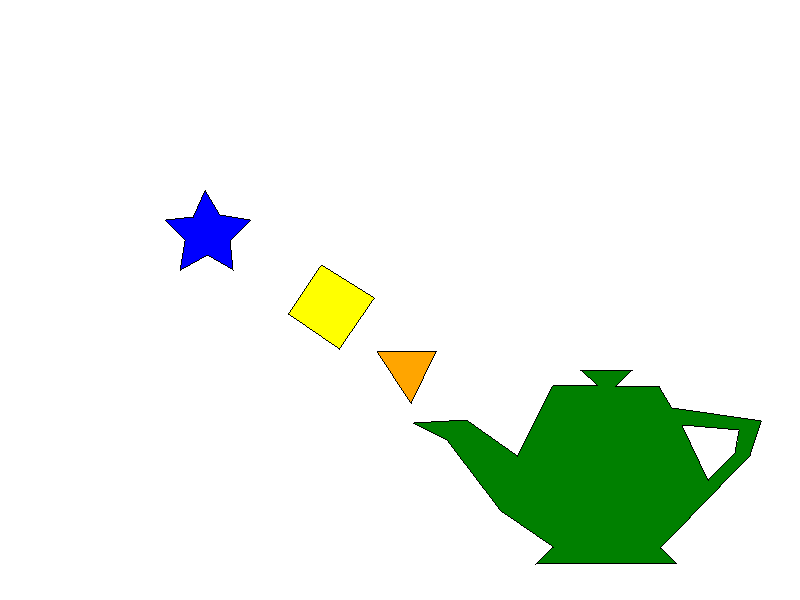
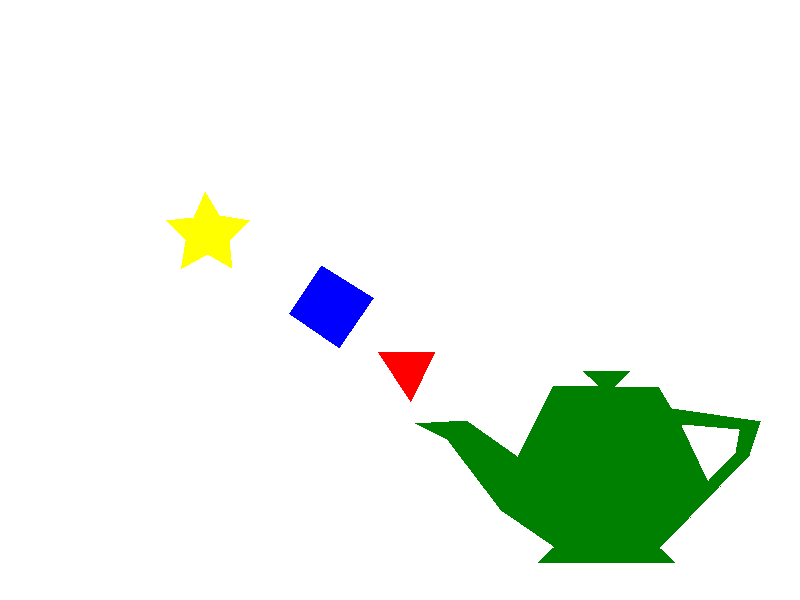
Done

Changed region(s): [[0.3438, 0.45, 0.4688, 0.6], [0.1875, 0.33, 0.3125, 0.45], [0.4688, 0.57, 0.5625, 0.66]]

diff --git a/src/main.rs b/src/main.rs
@@ -119,10 +119,10 @@ fn main() {
                 Vector2::new(tri[0].x, tri[0].y),
                 Vector2::new(tri[1].x, tri[1].y),
                 Vector2::new(tri[2].x, tri[2].y),
-                Color::BLUE,
+                Color::YELLOW,
             );
         }
-        draw_polygon_outline(&mut new_image, &polygone1, Color::BLACK, image_height);
+        draw_polygon_outline(&mut new_image, &polygone1, Color::WHITE, image_height);
     }
 
     // polígono 2
@@ -136,10 +136,10 @@ fn main() {
                 Vector2::new(tri[0].x, tri[0].y),
                 Vector2::new(tri[1].x, tri[1].y),
                 Vector2::new(tri[2].x, tri[2].y),
-                Color::YELLOW,
+                Color::BLUE,
             );
         }
-        draw_polygon_outline(&mut new_image, &polygone2, Color::BLACK, image_height);
+        draw_polygon_outline(&mut new_image, &polygone2, Color::WHITE, image_height);
     }
 
     // polígono 3
@@ -153,10 +153,10 @@ fn main() {
                 Vector2::new(tri[0].x, tri[0].y),
                 Vector2::new(tri[1].x, tri[1].y),
                 Vector2::new(tri[2].x, tri[2].y),
-                Color::ORANGE,
+                Color::RED,
             );
         }
-        draw_polygon_outline(&mut new_image, &polygone3, Color::BLACK, image_height);
+        draw_polygon_outline(&mut new_image, &polygone3, Color::WHITE, image_height);
     }
 
     // polígono 4
@@ -173,10 +173,10 @@ fn main() {
                 Color::GREEN,
             );
         }
-        draw_polygon_outline(&mut new_image, &polygone4, Color::BLACK, image_height);
+        draw_polygon_outline(&mut new_image, &polygone4, Color::WHITE, image_height);
     }
 
-    // polígono 5 (agujero): pintarlo blanco
+    // polígono 5
     {
         let verts: Vec<Vertex> = polygone5.iter()
             .map(|&(x,y)| Vertex::new(x,y,image_height))
@@ -187,10 +187,10 @@ fn main() {
                 Vector2::new(tri[0].x, tri[0].y),
                 Vector2::new(tri[1].x, tri[1].y),
                 Vector2::new(tri[2].x, tri[2].y),
-                Color::WHITE,  // rellena el agujero
+                Color::WHITE,  
             );
         }
-        draw_polygon_outline(&mut new_image, &polygone5, Color::BLACK, image_height);
+        draw_polygon_outline(&mut new_image, &polygone5, Color::WHITE, image_height);
     }
 
     // exportar
